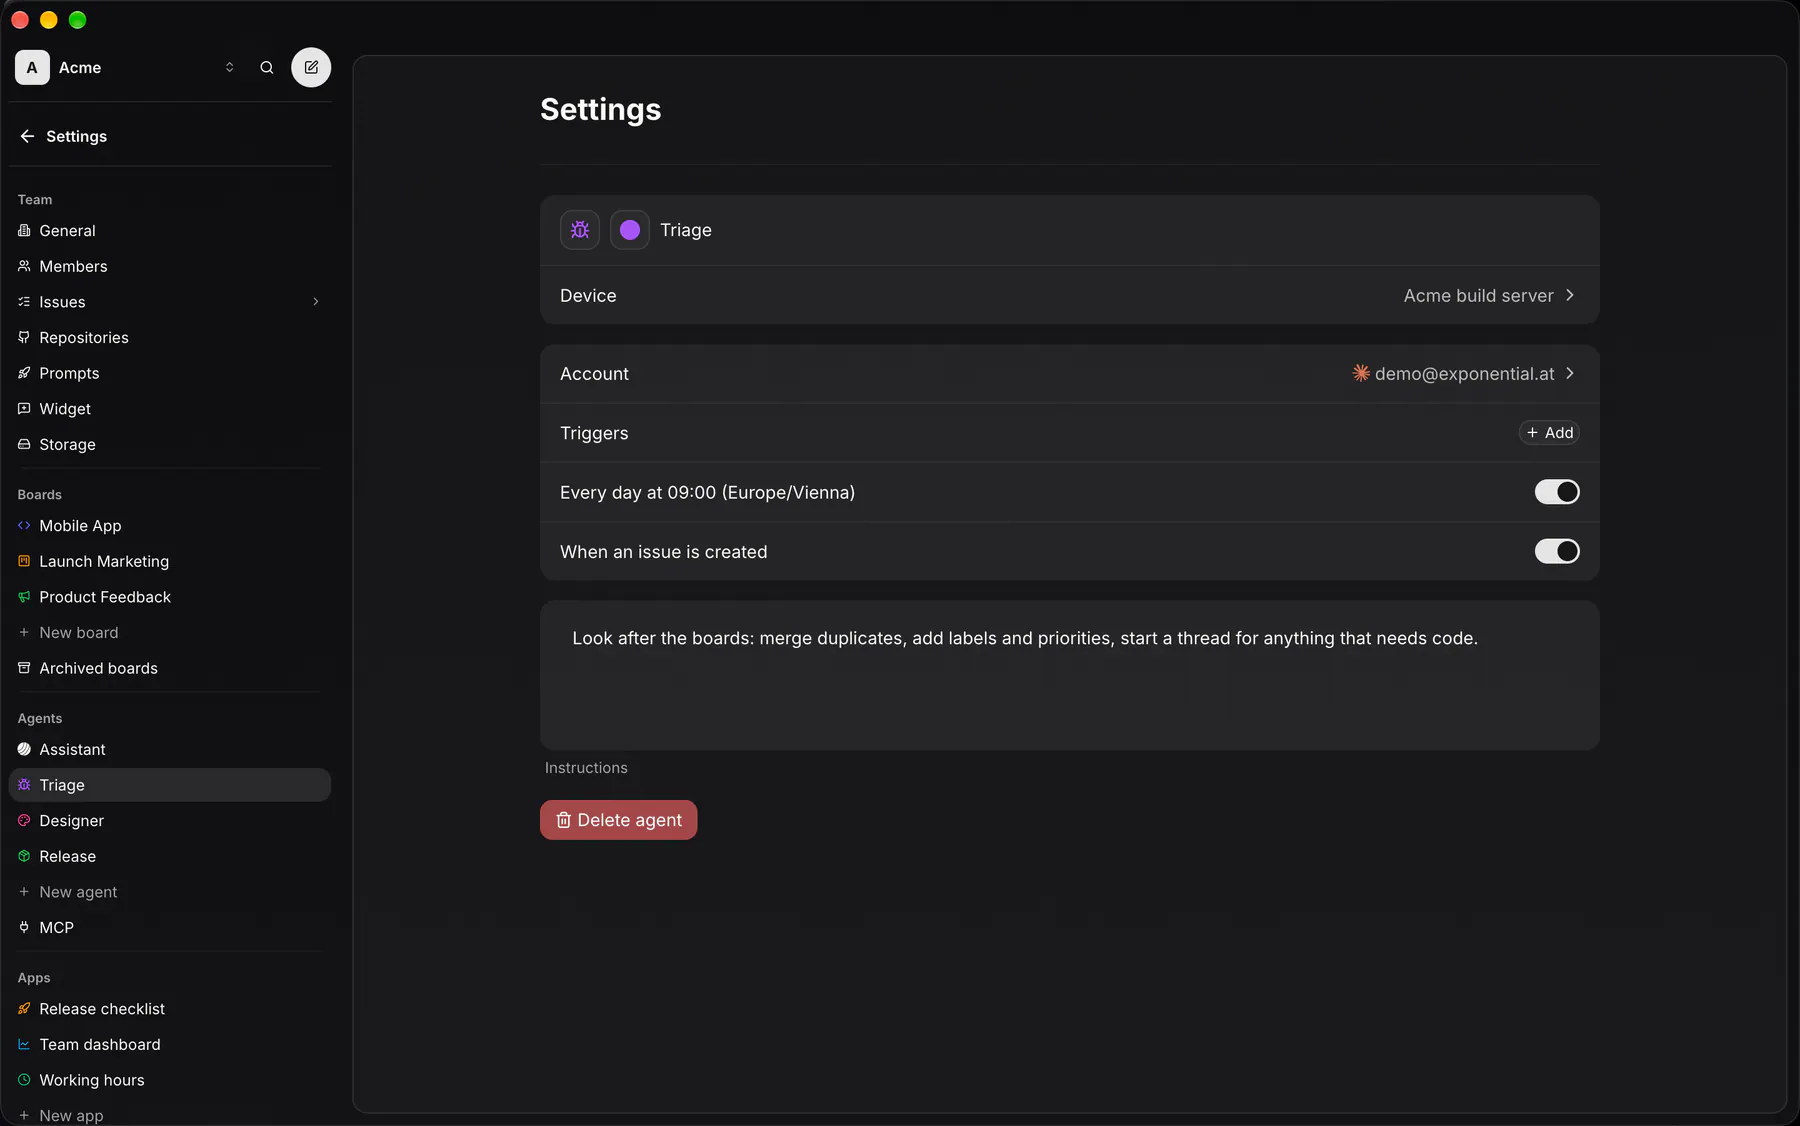
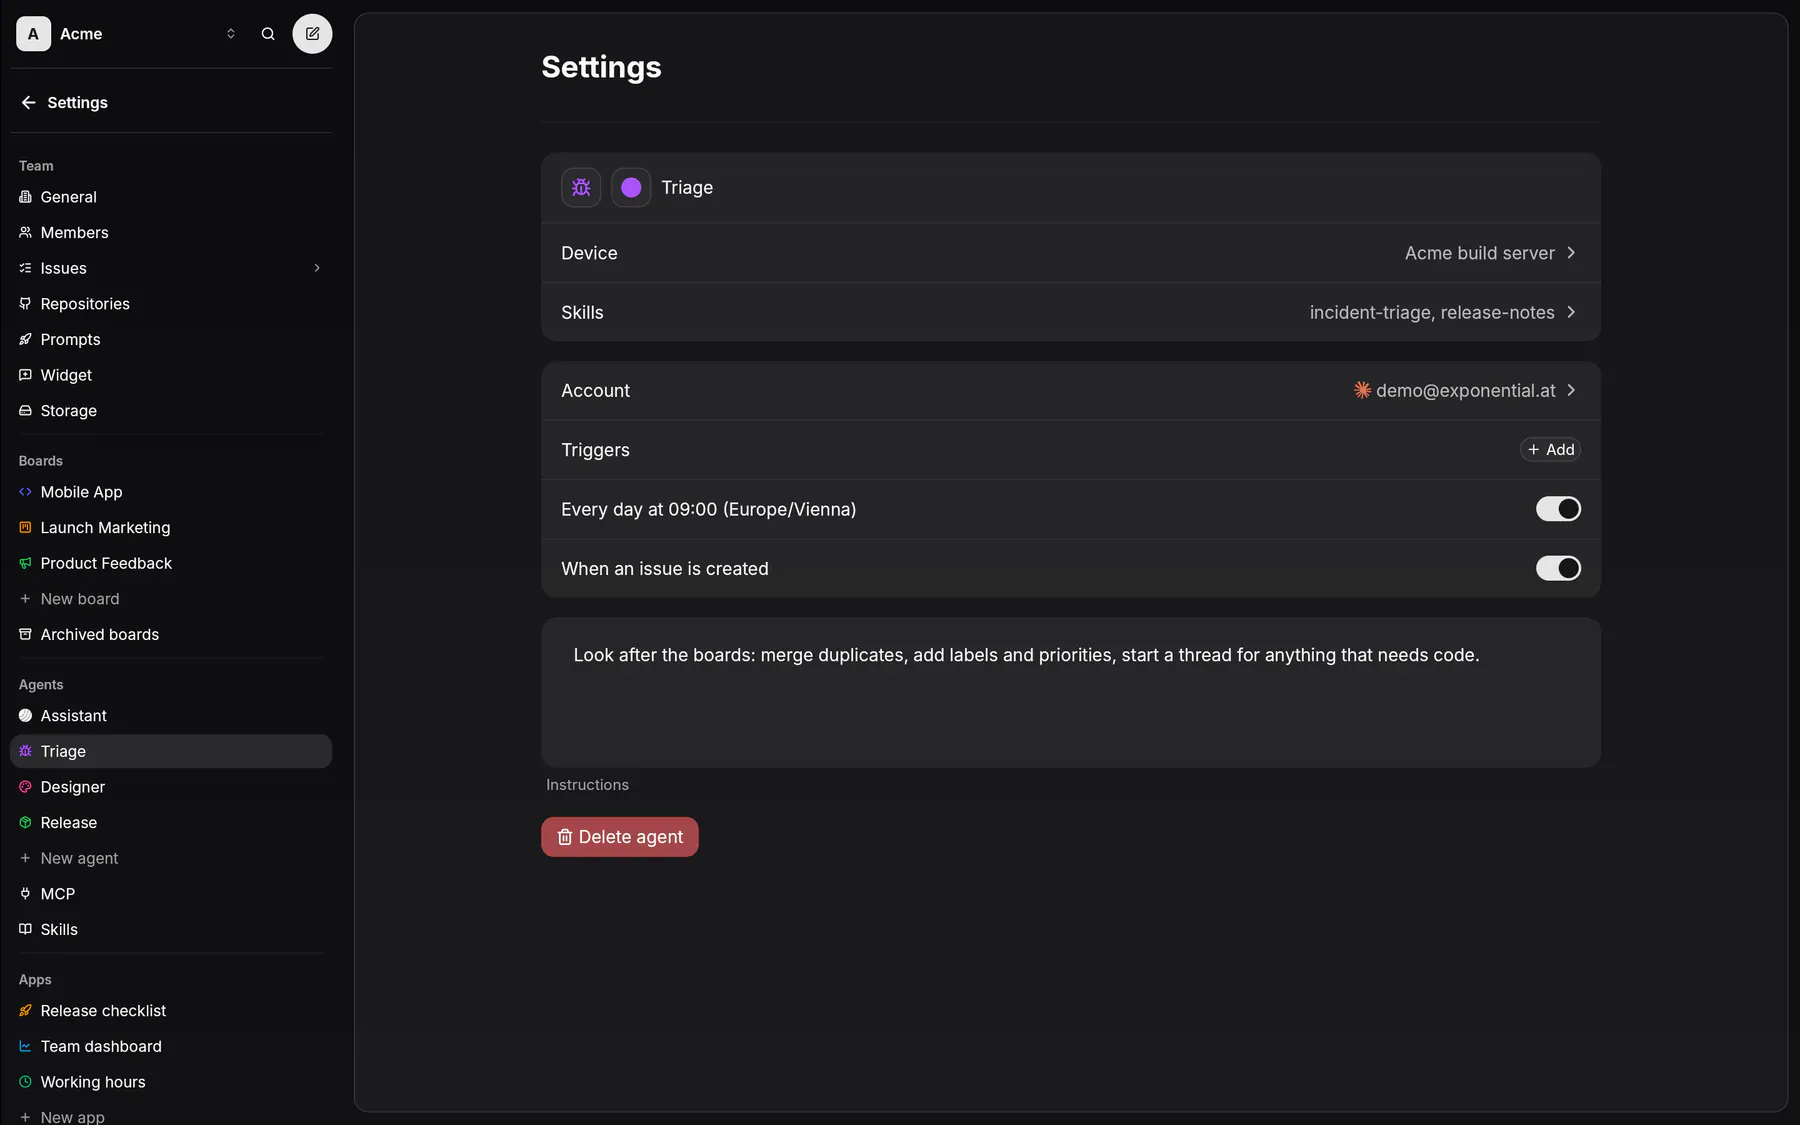
EXP-1660: desktop Settings › Skills, + menu › Skills picker, agent page › Skills, skills shape sync
The desktop twin of #EXP-1659 (fixtures/skills.json): the 34th synced
shape (skills, body-less) + agents.skill_ids, the skills.* client, the
domain mirror replaying skills.json, Settings › Skills (list + page) in
the Agents group after MCP, ComposerPicker::Skills (THE skills multi
picker, preselect = saved pick else defaults, sent as skillIds), the
agent page's Skills row under Device (Assistant: last of Runs on), the
composer styleguide twin, view-catalog desktop drives + shots.

diff --git a/apps/desktop/crates/ui/src/settings/skills.rs b/apps/desktop/crates/ui/src/settings/skills.rs
@@ -31,7 +31,7 @@ use gpui_component::{
 
 use domain::skills::{self as spec, SkillField};
 
-use crate::controls::{glass_input, WebControl as _};
+use crate::controls::{glass_input, PointerMenuButtonExt as _, WebControl as _};
 use crate::icons::registry;
 use crate::native_dialog::{self, AlertSpec};
 use crate::navigation::{active_team_id, navigate, Navigation, Screen};
@@ -59,13 +59,55 @@ pub(crate) fn skill_icon() -> Icon {
 // The list
 // ---------------------------------------------------------------------------
 
+/// The owners' row "…" menu (web `SkillsListBand`): Edit, then the
+/// destructive Delete behind THE Prompt. The wrapper keeps its click off the
+/// row (which opens the page).
+fn row_menu(id: &str, name: &str, cx: &App) -> gpui::AnyElement {
+    let (edit_id, delete_id) = (id.to_string(), id.to_string());
+    let button = crate::controls::ghost_icon_button(
+        SharedString::from(format!("skill-menu-{id}")),
+        Icon::new(registry::UI_MORE),
+        cx,
+    )
+    .tooltip(SharedString::from(format!("Skill menu for {name}")))
+    .pointer_menu(move |menu, _window, cx| {
+        let (edit_id, delete_id) = (edit_id.clone(), delete_id.clone());
+        menu.item(
+            crate::controls::pointer_label_item("Edit", false)
+                .icon(Icon::new(registry::UI_EDIT))
+                .on_click(move |_, window, cx| open_skill_page(window, cx, edit_id.clone())),
+        )
+        .separator()
+        .item(
+            crate::controls::danger_menu_item(spec::DELETE_CONFIRM, Icon::new(registry::UI_DELETE), cx)
+                .on_click(move |_, window, cx| confirm_delete(delete_id.clone(), window, cx)),
+        )
+    });
+    div()
+        .id(SharedString::from(format!("skill-menu-wrap-{id}")))
+        .flex_shrink_0()
+        .on_click(|_, _, cx| cx.stop_propagation())
+        .child(button)
+        .into_any_element()
+}
+
+/// Delete behind THE Prompt (skills.json `page.deleteConfirm`).
+fn confirm_delete(skill_id: String, window: &mut Window, cx: &mut App) {
+    let alert = AlertSpec::from_prompt(spec::DELETE_LABEL, &spec::delete_confirm()).on_ok(move |_, cx| {
+        spawn_skill_delete(cx, skill_id.clone());
+        true
+    });
+    native_dialog::open_alert(window, cx, alert);
+}
+
 /// One list row: glyph, name + the Default pill, the description caption
-/// (the MCP server row's layout).
+/// and the owners' "…" menu (the MCP server row's layout).
 pub(crate) fn skill_row(
     id: &str,
     name: &str,
     description: &str,
     default: bool,
+    owner: bool,
     cx: &App,
 ) -> gpui::Stateful<gpui::Div> {
     let muted = cx.theme().muted_foreground;
@@ -106,6 +148,7 @@ pub(crate) fn skill_row(
                     .child(SharedString::from(description.to_string())),
             ),
         )
+        .when(owner, |row| row.child(row_menu(id, name, cx)))
 }
 
 /// The Skills band (web `SkillsListBand`).
@@ -167,7 +210,7 @@ impl Render for SkillsPane {
         for skill in skills {
             let open_id = skill.id.clone();
             list = list.child(crate::surface::list_row(
-                skill_row(&skill.id, &skill.name, &skill.description, skill.enabled_by_default, cx).on_click(
+                skill_row(&skill.id, &skill.name, &skill.description, skill.enabled_by_default, owner, cx).on_click(
                     move |_: &ClickEvent, window, cx| {
                         open_skill_page(window, cx, open_id.clone());
                     },
@@ -478,11 +521,7 @@ impl SkillPage {
         let Some(skill_id) = self.skill_id.clone() else {
             return;
         };
-        let spec = AlertSpec::from_prompt(spec::DELETE_LABEL, &spec::delete_confirm()).on_ok(move |_, cx| {
-            spawn_skill_delete(cx, skill_id.clone());
-            true
-        });
-        native_dialog::open_alert(window, cx, spec);
+        confirm_delete(skill_id, window, cx);
     }
 
     /// The inline error under `field`, once it may show.
@@ -533,12 +572,15 @@ impl Render for SkillPage {
                 glass_input(&self.name, window, cx).appearance(false).h_auto().px_0().py_0().disabled(read_only),
             ),
         );
-        let description_row = crate::surface::glass_row_shell().child(
+        // The description is a grouped field row of its own (web
+        // `GROUPED_FIELD_ROW`): the prompt body's insets, so its text lines
+        // up with the body below.
+        let description_row = div().w_full().child(
             Textarea::new(&self.description)
                 .appearance(false)
                 .w_full()
-                .px_0()
-                .py_0()
+                .px_4()
+                .py_3()
                 .text_sm()
                 .disabled(read_only),
         );

diff --git a/apps/desktop/crates/ui/src/screens.rs b/apps/desktop/crates/ui/src/screens.rs
@@ -1011,8 +1011,17 @@ fn dev_composer_menu_wanted(value: Option<&str>, dialog: bool) -> bool {
 pub(crate) fn dev_composer_menu_temporary() -> bool {
     static TEMPORARY: std::sync::OnceLock<bool> = std::sync::OnceLock::new();
     *TEMPORARY.get_or_init(|| {
-        std::env::var("EXP_DEV_COMPOSER_MENU").ok().as_deref() == Some("temporary")
+        matches!(std::env::var("EXP_DEV_COMPOSER_MENU").ok().as_deref(), Some("temporary" | "skills"))
     })
+}
+
+/// #EXP-1660 — `EXP_DEV_COMPOSER_MENU=skills`: Home starts on Temporary
+/// session and opens "+" › Skills (THE skills picker, anchored to the +)
+/// once, the `composer-skills-menu` capture. Taken once.
+pub(crate) fn take_dev_skills_picker() -> bool {
+    use std::sync::atomic::{AtomicBool, Ordering};
+    static TAKEN: AtomicBool = AtomicBool::new(false);
+    std::env::var("EXP_DEV_COMPOSER_MENU").ok().as_deref() == Some("skills") && !TAKEN.swap(true, Ordering::SeqCst)
 }
 
 /// EXP-1557 — `EXP_DEV_COMPOSER_TEXT=<text>` types `<text>` into Home's

diff --git a/apps/desktop/crates/ui/src/chat_screen.rs b/apps/desktop/crates/ui/src/chat_screen.rs
@@ -2486,6 +2486,16 @@ impl ChatScreenView {
             launch.set_mcp_servers(mcp);
             launch.set_skills(team_id.as_deref(), skills);
         }
+        // #EXP-1660 (DEV-ONLY, `EXP_DEV_COMPOSER_MENU=skills`): open the
+        // Skills picker once the team's skills and the + are there.
+        if matches!(self.presentation, Presentation::Page)
+            && self.plus_tool_bounds.get().size.width > px(0.)
+            && self.launch.as_ref().is_some_and(|launch| !launch.skills_menu().0.is_empty())
+            && !self.to_agent(cx)
+            && crate::screens::take_dev_skills_picker()
+        {
+            self.open_picker = Some(ComposerPicker::Skills);
+        }
 
         let blocker = self.launch_blocker(cx);
         // EXP-1196: a device/agent failure renders as THE failing readiness

diff --git a/CLAUDE.md b/CLAUDE.md
@@ -59,7 +59,7 @@ Coolify (home-LAN-only): `coolify deploy uuid <uuid>` after a green Actions run 
 
 - **Vocabulary:** the product says **team**, **board**, **session** everywhere (copy, URLs `/t/$teamSlug/boards/$boardSlug/issues/$id`, DB, routers, MCP); never workspace/project/run/thread table.
 - **Same UI ×4:** one styleguide; prefer existing components; a new one goes into the styleguide and, if low-level, into Exponential UI (`packages/exponential-ui*`). Fixture-locked behaviour (`fixtures/*.json`) replays on web, desktop, iOS and Android; a change edits the fixture first. Shots live in `shots/`; `pr open` refuses a UI diff without a picture per platform.
-- **Shapes:** every synced table has one proxy in `routes/api/shapes/` pinning a server-side `columns` allowlist (server-only columns stay BEHIND it); every shape is member-only; board-scoped shapes carry `team_id` + static trash/archive mirrors; the session tree uses the visibility rule (`shared` or starter). Clients sync the same 33 shapes (messages keyed through `conversations`); web adds `skills` (34th; natives with #EXP-1659..1661). Collections (`lib/collections.ts`) use `snakeCamelMapper`; `undefined` skips a query; `and()`/`or()` from `@tanstack/react-db`. Web `messages` is ON DEMAND (#EXP-1380): every query narrows by `rootId`/`conversationId` (the proxy forwards `subset__*` only over the shape's own columns, `subsets: true`); lists read `conversations.digest` (`useDigestMessages`), never transcripts.
+- **Shapes:** every synced table has one proxy in `routes/api/shapes/` pinning a server-side `columns` allowlist (server-only columns stay BEHIND it); every shape is member-only; board-scoped shapes carry `team_id` + static trash/archive mirrors; the session tree uses the visibility rule (`shared` or starter). Clients sync the same 33 shapes (messages keyed through `conversations`); web and desktop add `skills` (34th; phones with #EXP-1661). Collections (`lib/collections.ts`) use `snakeCamelMapper`; `undefined` skips a query; `and()`/`or()` from `@tanstack/react-db`. Web `messages` is ON DEMAND (#EXP-1380): every query narrows by `rootId`/`conversationId` (the proxy forwards `subset__*` only over the shape's own columns, `subsets: true`); lists read `conversations.digest` (`useDigestMessages`), never transcripts.
 - **Access:** `lib/auth/access.ts` `resolveTeamAccess` is the one authority; owners own the destructive/settings surface. Billing + admin = web-only; coding sessions run only on the desktop app and the CLI daemon.
 - **Markdown:** `issues.description` + `comments.body` = plain GFM, one interchange ×4 (`CONTRACT_FIXTURES`); mentions `@<email>`, issue refs `#IDENT`, images `![alt](/api/attachments/{id})`, emoji = unicode.
 - **Statuses:** issues dual-write `status` (anchor enum) and `statusId` (per-team row); PR open/merge move linked issues; nothing else moves status (`issue-lifecycle.json`).
